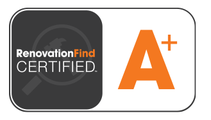
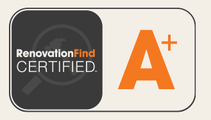
Add files via upload

diff --git a/assets/css/style.css b/assets/css/style.css
@@ -259,7 +259,11 @@ textarea{resize:vertical;min-height:130px;}
 .badge--logo{display:flex;align-items:center;justify-content:center;}
 .badge--logo img{height:52px;width:auto;display:block;}
 .badge--badge{display:flex;align-items:center;justify-content:center;}
-.badge--badge img{height:70px;width:auto;display:block;border-radius:6px;}
+.badge--badge img{height:70px;width:auto;display:block;}
+/* Badges whose artwork includes its own light panel (RenovationFind, Houzz) sit on
+   a clean white chip so the panel reads as an intentional card, not a stray rectangle. */
+.badge--chip{display:flex;align-items:center;justify-content:center;background:#fff;border-radius:10px;padding:.55rem .7rem;box-shadow:0 1px 3px rgba(35,26,24,.08);}
+.badge--chip img{height:48px;width:auto;display:block;}
 .badge--google{display:flex;flex-direction:column;align-items:center;gap:.3rem;text-decoration:none;transition:transform .3s ease;}
 .badge--google:hover{transform:translateY(-2px);}
 .badge__rating{font-family:var(--ff-display);font-size:1.9rem;line-height:1;color:var(--espresso);}
